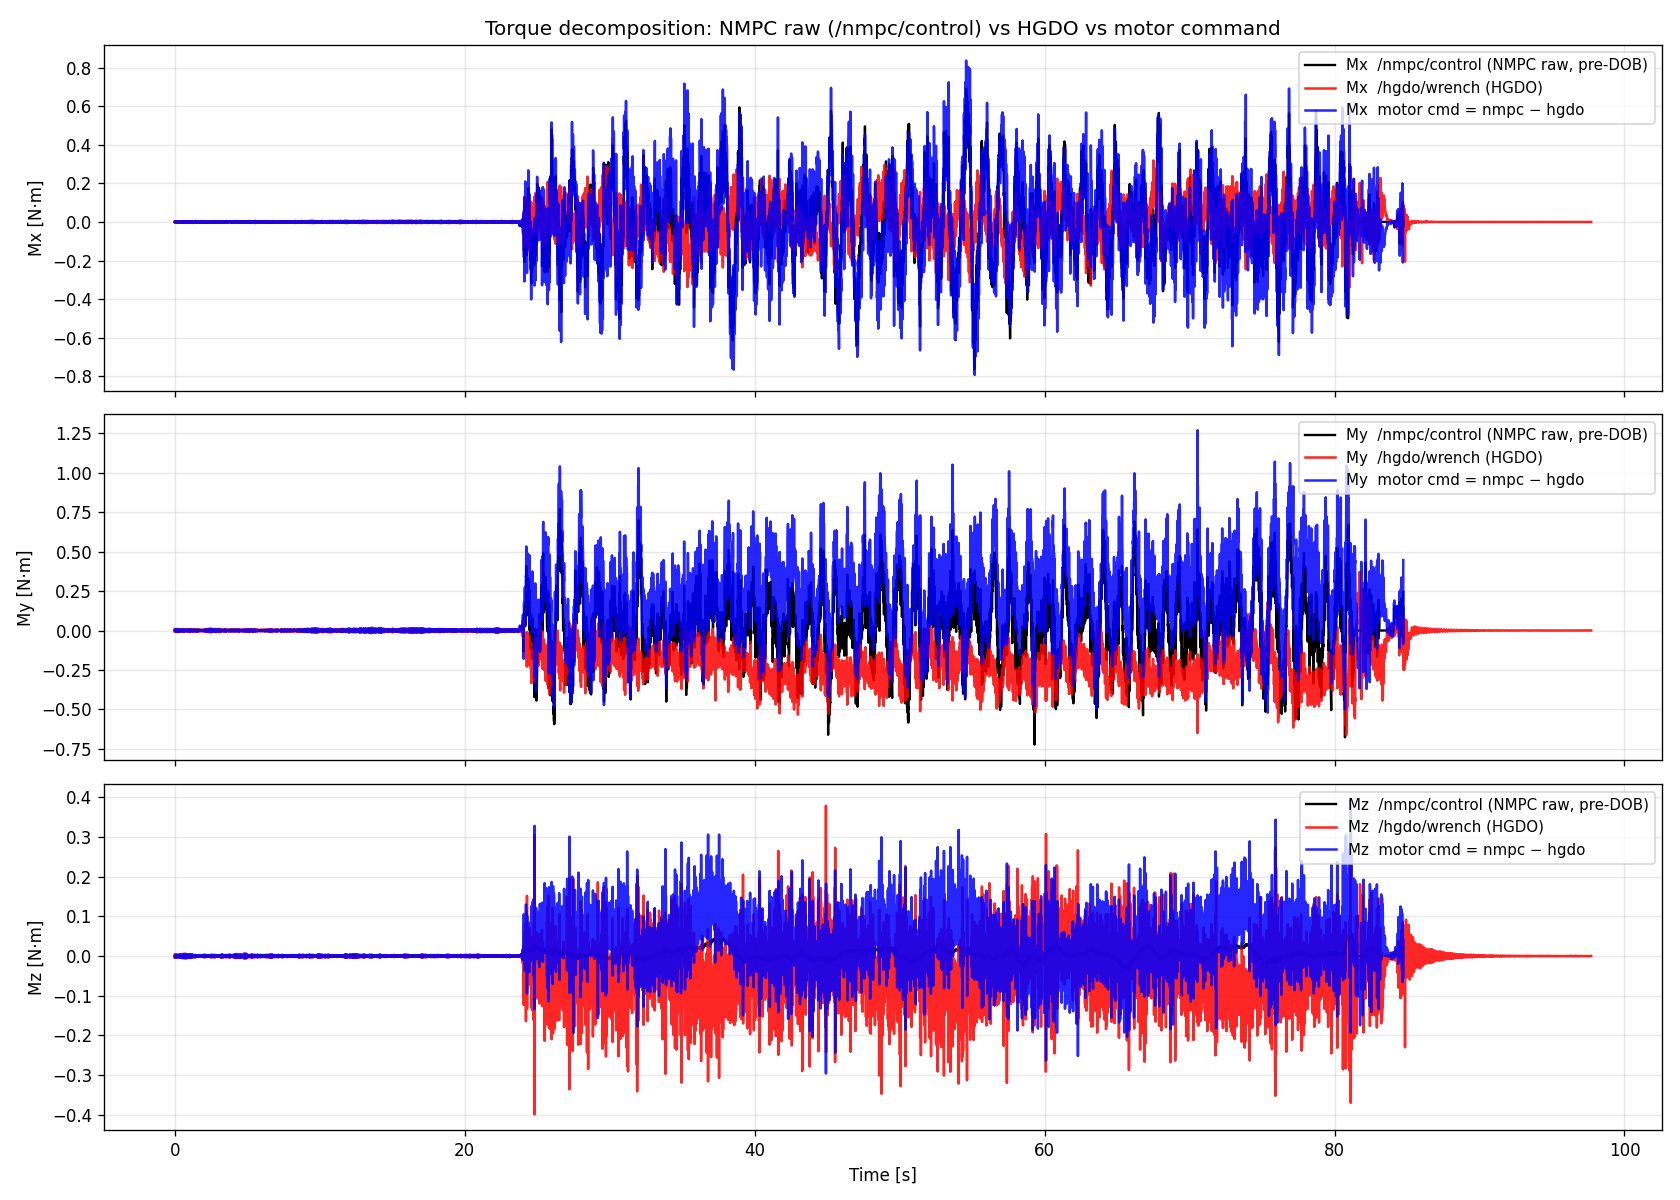
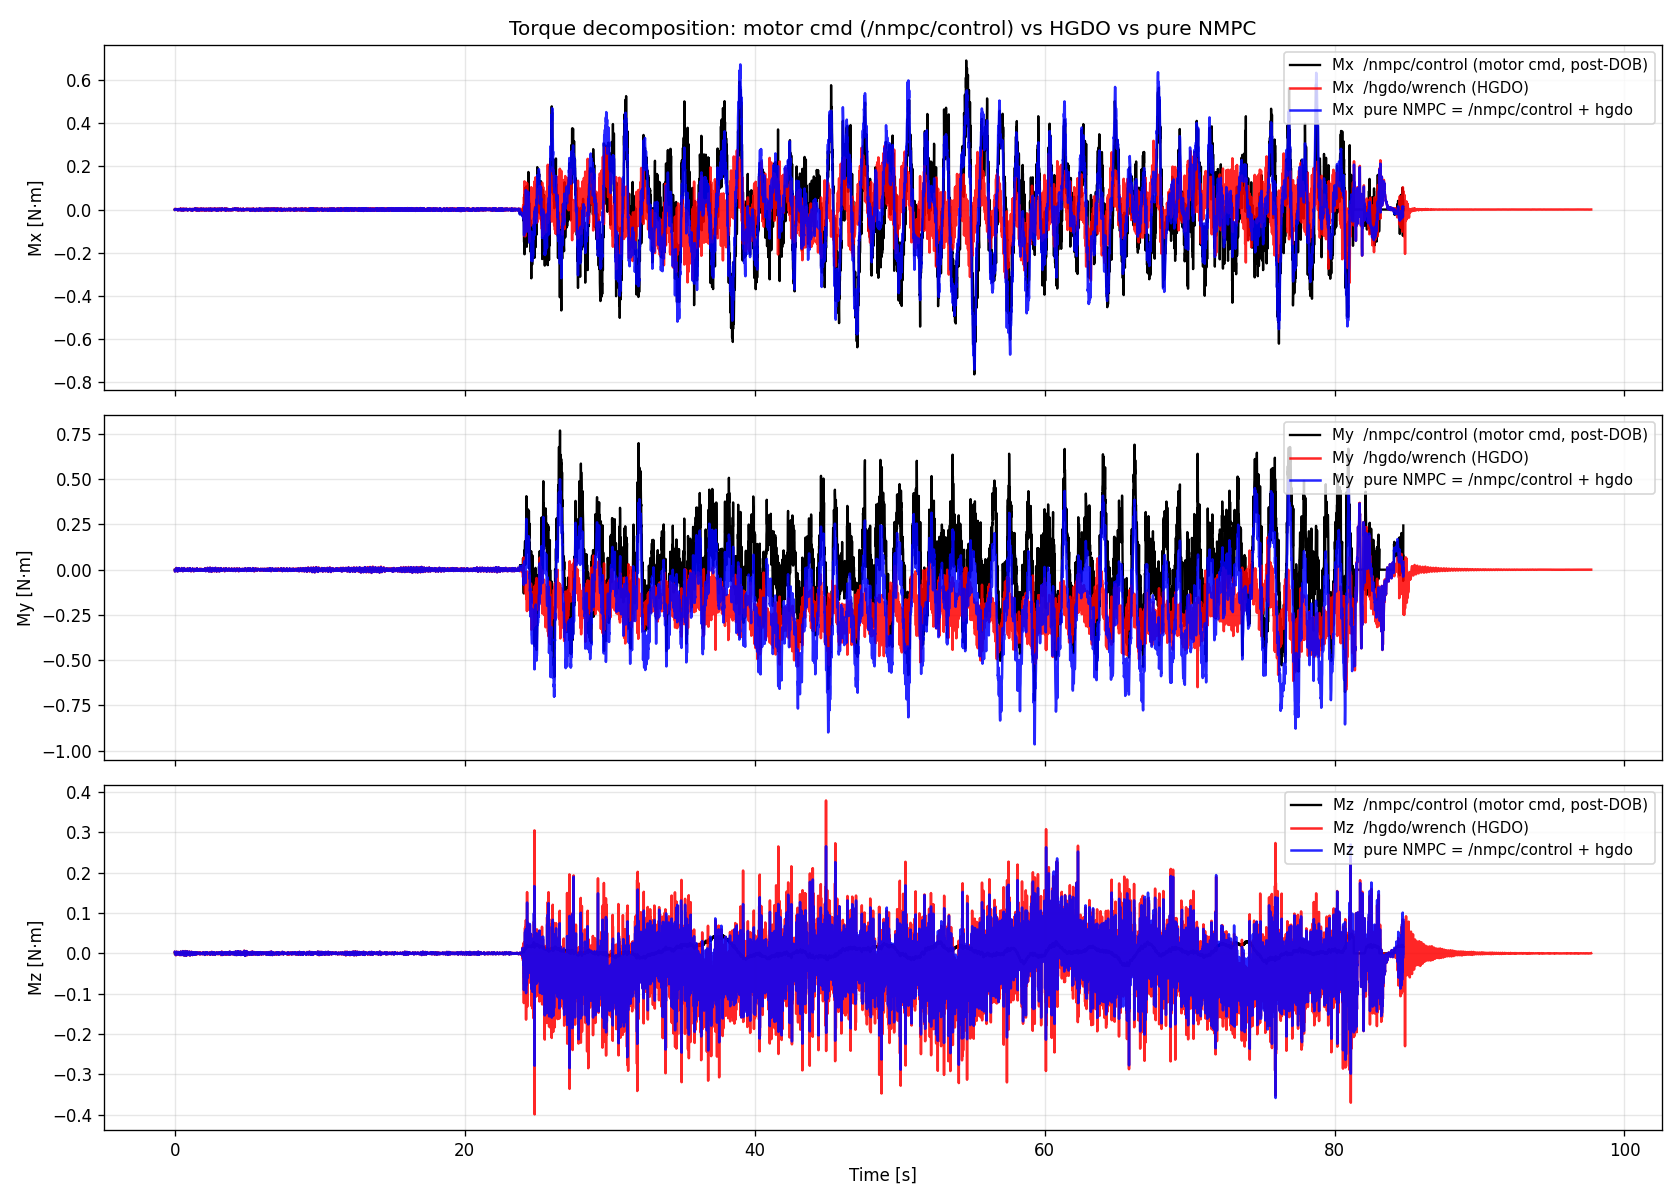
Correct torque decomposition convention
/nmpc/control torque is the motor command (post-DOB), not raw NMPC.
Pure NMPC torque = /nmpc/control + /hgdo/wrench.  Add per-axis split
plots (Mx, My, Mz separately) and update stats labels.

https://claude.ai/code/session_01VcVaAMfBwz3GjyXHR2i6jo

Changed region(s): [[0.031, 0.0308, 0.9905, 0.8942], [0.2786, 0.0, 0.7738, 0.0308], [0.031, 0.0617, 0.0619, 0.2775]]

diff --git a/bag_folder/analyze_2026_05_11_free_flight.py b/bag_folder/analyze_2026_05_11_free_flight.py
@@ -318,29 +318,42 @@ plt.tight_layout()
 plt.savefig(os.path.join(OUT_DIR, f'{TAG}_xy_force_causality.png'), dpi=120)
 plt.close()
 
-# ─────────── PLOT 6: Torque decomposition (NMPC raw vs HGDO vs motor cmd) ───────────
-#   /nmpc/control.torque = u_mpc  (NMPC raw, BEFORE HGDO compensation)
+# ─────────── PLOT 6: Torque decomposition (motor cmd / HGDO / pure NMPC) ───────────
+#   /nmpc/control.torque = motor command (POST-DOB, what actually drives the rotors)
 #   /hgdo/wrench.torque  = tau_dist
-#   motor cmd torque     = u_mpc - tau_dist  (post-DOB, what actually drives rotors)
+#   pure NMPC torque     = /nmpc/control.torque + tau_dist   (what NMPC alone wanted)
 hgdo_tau_at_ctrl = np.column_stack([
     np.interp(ctrl_t, hgdo_t, hgdo[:, 3]),
     np.interp(ctrl_t, hgdo_t, hgdo[:, 4]),
     np.interp(ctrl_t, hgdo_t, hgdo[:, 5])])
-motor_tau = ctrl[:, 3:6] - hgdo_tau_at_ctrl
+nmpc_pure_tau = ctrl[:, 3:6] + hgdo_tau_at_ctrl
 
 fig, axes = plt.subplots(3, 1, figsize=(14, 10), sharex=True)
 labels_axis = ['Mx', 'My', 'Mz']
 for k in range(3):
-    axes[k].plot(ctrl_t, ctrl[:, 3 + k],  'k', lw=1.4, label=f'{labels_axis[k]}  /nmpc/control (NMPC raw, pre-DOB)')
-    axes[k].plot(hgdo_t, hgdo[:, 3 + k],  'r', alpha=0.85, label=f'{labels_axis[k]}  /hgdo/wrench (HGDO)')
-    axes[k].plot(ctrl_t, motor_tau[:, k], 'b', alpha=0.85, label=f'{labels_axis[k]}  motor cmd = nmpc − hgdo')
+    axes[k].plot(ctrl_t, ctrl[:, 3 + k],     'k', lw=1.4, label=f'{labels_axis[k]}  /nmpc/control (motor cmd, post-DOB)')
+    axes[k].plot(hgdo_t, hgdo[:, 3 + k],     'r', alpha=0.85, label=f'{labels_axis[k]}  /hgdo/wrench (HGDO)')
+    axes[k].plot(ctrl_t, nmpc_pure_tau[:, k],'b', alpha=0.85, label=f'{labels_axis[k]}  pure NMPC = /nmpc/control + hgdo')
     axes[k].set_ylabel(f'{labels_axis[k]} [N·m]'); axes[k].grid(alpha=0.3)
     axes[k].legend(loc='upper right', fontsize=9)
-axes[0].set_title('Torque decomposition: NMPC raw (/nmpc/control) vs HGDO vs motor command')
+axes[0].set_title('Torque decomposition: motor cmd (/nmpc/control) vs HGDO vs pure NMPC')
 axes[-1].set_xlabel('Time [s]')
 plt.tight_layout()
 plt.savefig(os.path.join(OUT_DIR, f'{TAG}_torque_decomp.png'), dpi=120)
 plt.close()
+
+# Per-axis split (one figure each) — easier to read on phone
+for k, ax_name in enumerate(['Mx', 'My', 'Mz']):
+    fig, ax = plt.subplots(1, 1, figsize=(14, 5))
+    ax.plot(ctrl_t, ctrl[:, 3 + k],      'k', lw=1.4, label=f'{ax_name} motor cmd (/nmpc/control, post-DOB)')
+    ax.plot(hgdo_t, hgdo[:, 3 + k],      'r', alpha=0.85, label=f'{ax_name} HGDO')
+    ax.plot(ctrl_t, nmpc_pure_tau[:, k], 'b', alpha=0.85, label=f'{ax_name} pure NMPC = motor + hgdo')
+    ax.set_ylabel(f'{ax_name} [N·m]'); ax.set_xlabel('Time [s]'); ax.grid(alpha=0.3)
+    ax.legend(loc='upper right', fontsize=9)
+    ax.set_title(f'Torque decomposition — {ax_name}')
+    plt.tight_layout()
+    plt.savefig(os.path.join(OUT_DIR, f'{TAG}_torque_{ax_name}.png'), dpi=120)
+    plt.close()
 
 # ─────────── PLOT 5: PD-only vs HGDO-only vs total desired vs actual (per axis) ───────────
 fig, axes = plt.subplots(2, 1, figsize=(14, 9), sharex=True)
@@ -458,11 +471,11 @@ stats('pitch_pd', pd_rp[:, 1])
 def stats_lin(name, x, unit='N·m'):
     print(f'  {name:18s}  std={np.std(x):7.4f} {unit}   min={np.min(x):8.4f}   max={np.max(x):8.4f}')
 
-print('\n-- Torque (Mx, My, Mz) [N·m] --')
+print('\n-- Torque (Mx, My, Mz) [N·m]  — /nmpc/control = motor cmd (post-DOB) --')
 for k, ax in enumerate(['Mx', 'My', 'Mz']):
-    stats_lin(f'{ax}_nmpc',  ctrl[:, 3 + k])
-    stats_lin(f'{ax}_hgdo',  hgdo[:, 3 + k])
-    stats_lin(f'{ax}_motor', motor_tau[:, k])
+    stats_lin(f'{ax}_motor_cmd', ctrl[:, 3 + k])
+    stats_lin(f'{ax}_hgdo',      hgdo[:, 3 + k])
+    stats_lin(f'{ax}_nmpc_pure', nmpc_pure_tau[:, k])
 
 # Contribution share: std(hgdo_rp) / std(total_des_rp) on aligned time grid
 des_roll_on_hgdo  = np.interp(hgdo_t, ctrl_t, des_rp[:, 0])
@@ -484,3 +497,6 @@ print(f'  - {TAG}_hgdo_des_rp.png')
 print(f'  - {TAG}_rp_decomp.png')
 print(f'  - {TAG}_rp_decomp_split.png')
 print(f'  - {TAG}_torque_decomp.png')
+print(f'  - {TAG}_torque_Mx.png')
+print(f'  - {TAG}_torque_My.png')
+print(f'  - {TAG}_torque_Mz.png')